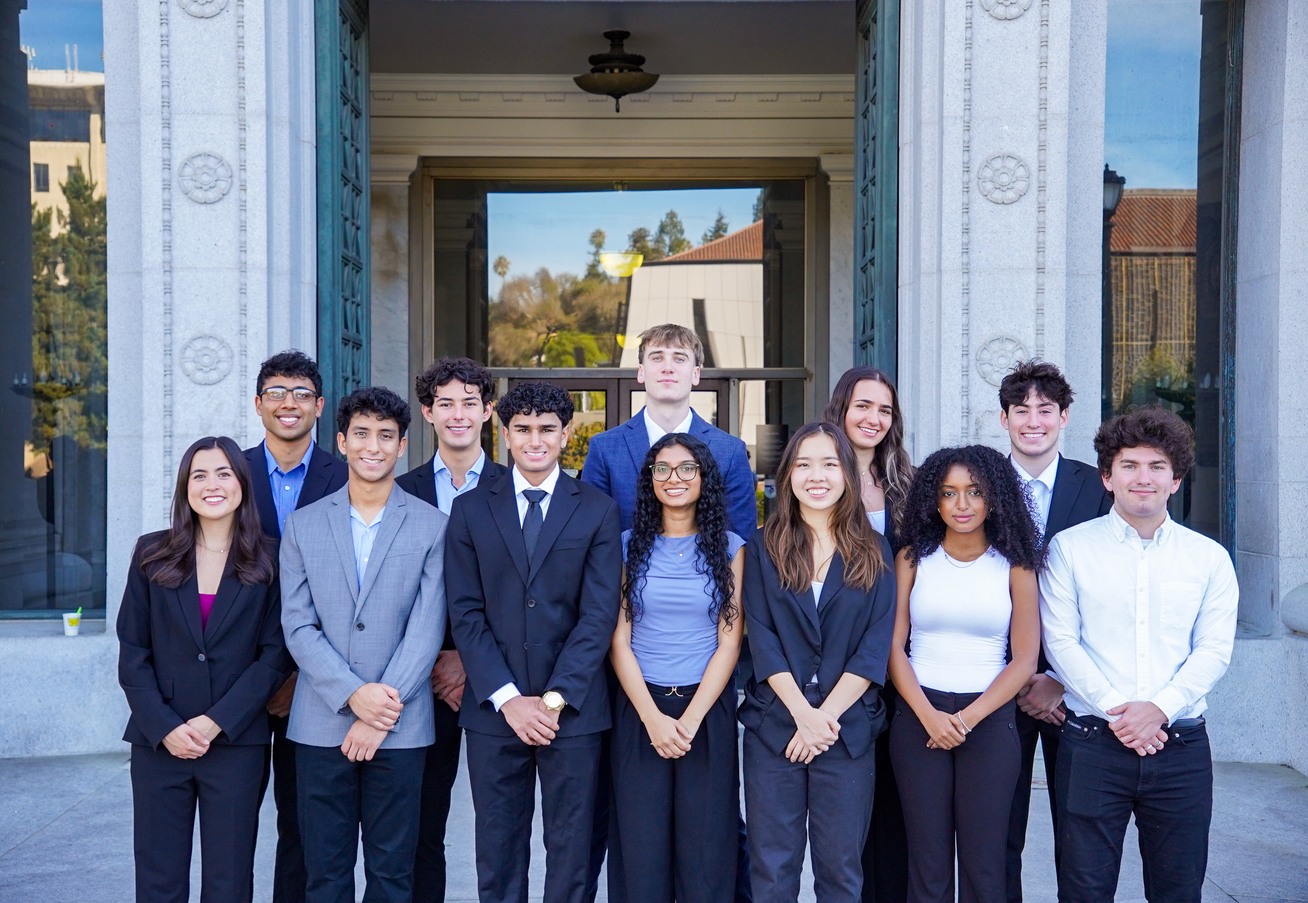
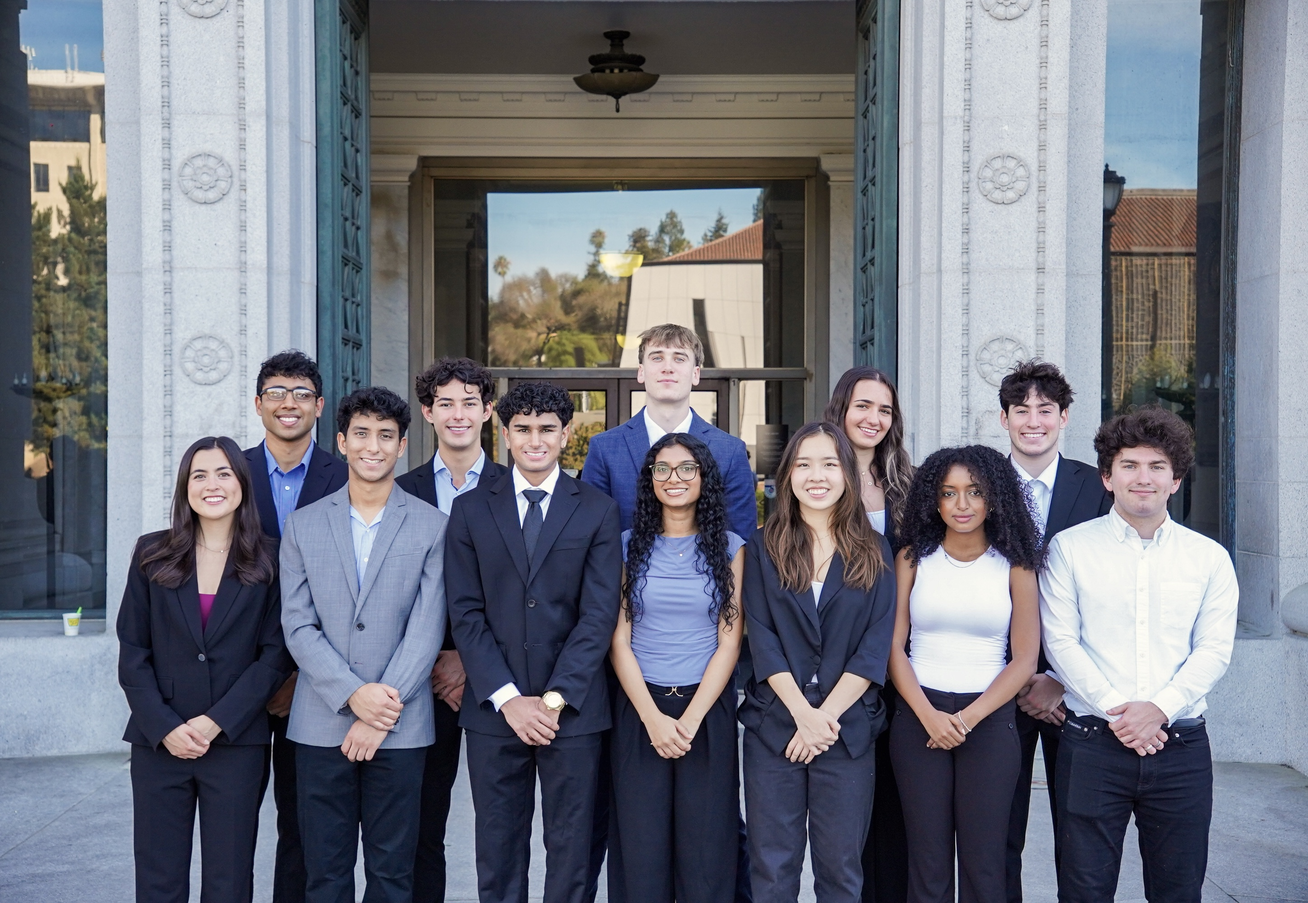
Updated pics, Ryan alum added

diff --git a/app/team/page.tsx b/app/team/page.tsx
@@ -54,20 +54,14 @@ export default function Team() {
 
       {/* Hero Section */}
       <section
-        className="relative h-[500px] md:h-[600px] bg-cover bg-center overflow-hidden"
-        style={{ backgroundImage: "url('/images/meet-our-members-hero-new.jpeg')" }}
+        className="relative h-[375px] md:h-[450px] bg-cover overflow-hidden"
+        style={{ 
+          backgroundImage: "url('/images/meet-mems-2026.jpg')",
+          backgroundPosition: "center 35%"
+        }}
       >
-        <div className="absolute inset-0 bg-black/20"></div>
-
-        <div className="absolute inset-0 flex flex-col justify-center items-center">
-          {/* Top row - MEET OUR */}
-          <div className="flex justify-center items-center gap-8 md:gap-16 mb-4 md:mb-8">
-            <h1 className="text-4xl md:text-6xl lg:text-7xl font-bold text-[#eee1c6] tracking-wider">MEET</h1>
-            <h1 className="text-4xl md:text-6xl lg:text-7xl font-bold text-[#eee1c6] tracking-wider">OUR</h1>
-          </div>
-
-          {/* Bottom row - MEMBERS */}
-          <h1 className="text-4xl md:text-6xl lg:text-7xl font-bold text-[#eee1c6] tracking-wider">MEMBERS</h1>
+        <div className="absolute inset-0 flex flex-col justify-start items-center pt-12 md:pt-16">
+          <h1 className="text-4xl md:text-6xl lg:text-7xl font-bold text-[#eee1c6] tracking-wider">MEET OUR MEMBERS</h1>
         </div>
       </section>
 
@@ -307,7 +301,7 @@ export default function Team() {
               <div className="text-center group relative">
                 <div className="w-20 h-24 md:w-32 md:h-40 mx-auto mb-2 md:mb-4 overflow-hidden rounded-lg relative">
                   <Image
-                    src="/images/kathy-yun-headshot.png"
+                    src="/images/kathy-yun-headshot.JPG"
                     alt="Kathy Yun"
                     width={128}
                     height={160}
@@ -640,7 +634,7 @@ export default function Team() {
                   <div className="text-center group relative">
                     <div className="w-20 h-24 md:w-32 md:h-40 rounded-lg mx-auto mb-2 md:mb-4 overflow-hidden relative">
                       <Image
-                        src="/images/kathy-yun-headshot.png"
+                        src="/images/kathy-yun-headshot.JPG"
                         alt="Kathy Yun"
                         width={128}
                         height={160}

diff --git a/app/homepage.tsx b/app/homepage.tsx
@@ -138,20 +138,22 @@ export default function Home() {
         {/* Welcome Section */}
         <section className="py-8 md:py-16 bg-[#eee1c6]">
           <div className="container mx-auto px-4">
-            <div className="grid md:grid-cols-2 gap-8 md:gap-12 items-center max-w-6xl mx-auto">
-              <div className="bg-[#023020] text-[#eee1c6] p-6 md:p-8 rounded-lg">
-                <h2 className="text-xl md:text-2xl font-bold mb-4">Welcome to DataStory,</h2>
-                <p className="text-sm md:text-base leading-relaxed">
-                  a premier student-led organization at UC Berkeley dedicated to providing top-notch consulting services
-                  in the fields of data science and software development.
-                </p>
+            <div className="grid md:grid-cols-2 gap-6 md:gap-8 items-stretch max-w-6xl mx-auto">
+              <div className="bg-[#023020] text-[#eee1c6] p-6 md:p-8 rounded-lg flex items-center">
+                <div>
+                  <h2 className="text-lg md:text-xl font-bold mb-4">Welcome to DataStory,</h2>
+                  <p className="text-xs md:text-sm leading-relaxed">
+                    a premier student-led organization at UC Berkeley dedicated to providing top-notch consulting services
+                    in the fields of data science and software development.
+                  </p>
+                </div>
               </div>
-              <div className="relative h-[200px] md:h-[300px] rounded-lg overflow-hidden">
+              <div className="relative rounded-lg overflow-hidden">
                 <Image
-                  src="/images/leadership-team-women.png"
+                  src="/images/women-2026-group.jpg"
                   alt="DataStory leadership team"
                   fill
-                  className="object-cover"
+                  className="object-cover rounded-lg"
                 />
               </div>
             </div>

diff --git a/app/development/page.tsx b/app/development/page.tsx
@@ -22,13 +22,13 @@ export default function Development() {
       image: "/images/graham-graduation-photo.png",
     },
     {
-      name: "AILEEN PERALTA",
-      graduatingClass: "Spring 2022",
-      position: "ML Software Engineer at General Motors",
-      location: "Austin, TX",
-      interests: "Hiking, binge watching shows, new plant owner",
-      impact: "Meeting new people and gaining new technical skills from working on the website and education team.",
-      image: "/images/aileen-professional-headshot.png",
+      name: "RYAN CHAN",
+      graduatingClass: "Spring 2025",
+      position: "Software Engineer at Meta",
+      location: "Menlo Park, CA",
+      impact:
+        "DataStory helped me improve my professional career tremendously. I remember for my first internship half their behavioral interview questions were about my experiences at DataStory. I learned a lot of professional advice and got tons of hands on experience from a variety of consulting projects.",
+      image: "/images/Ryan-chan-headshot.jpeg",
     },
   ]
 
@@ -329,9 +329,11 @@ export default function Development() {
                       <p>
                         <span className="font-semibold italic">Location:</span> {currentProfile.location}
                       </p>
-                      <p>
-                        <span className="font-semibold italic">Interests:</span> {currentProfile.interests}
-                      </p>
+                      {currentProfile.interests && (
+                        <p>
+                          <span className="font-semibold italic">Interests:</span> {currentProfile.interests}
+                        </p>
+                      )}
                       <p>
                         <span className="font-semibold italic">Most impactful moment in DataStory:</span>{" "}
                         {currentProfile.impact}
